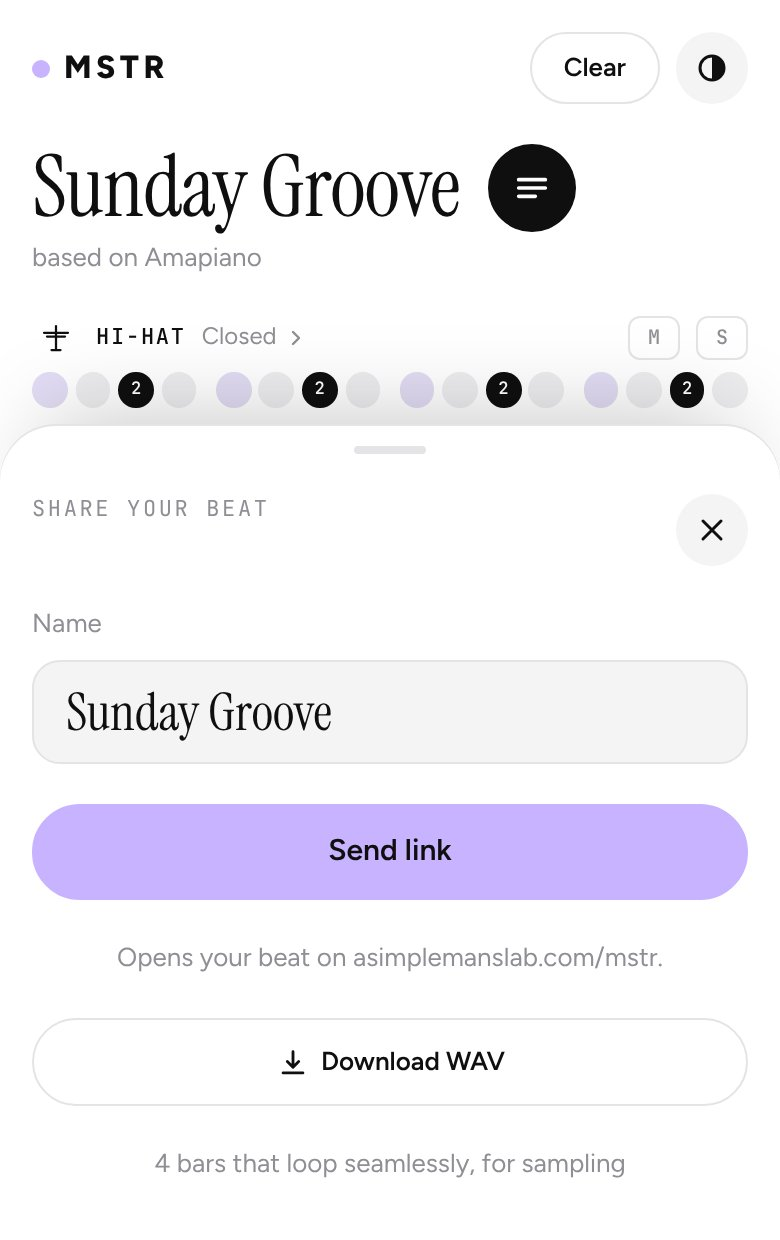
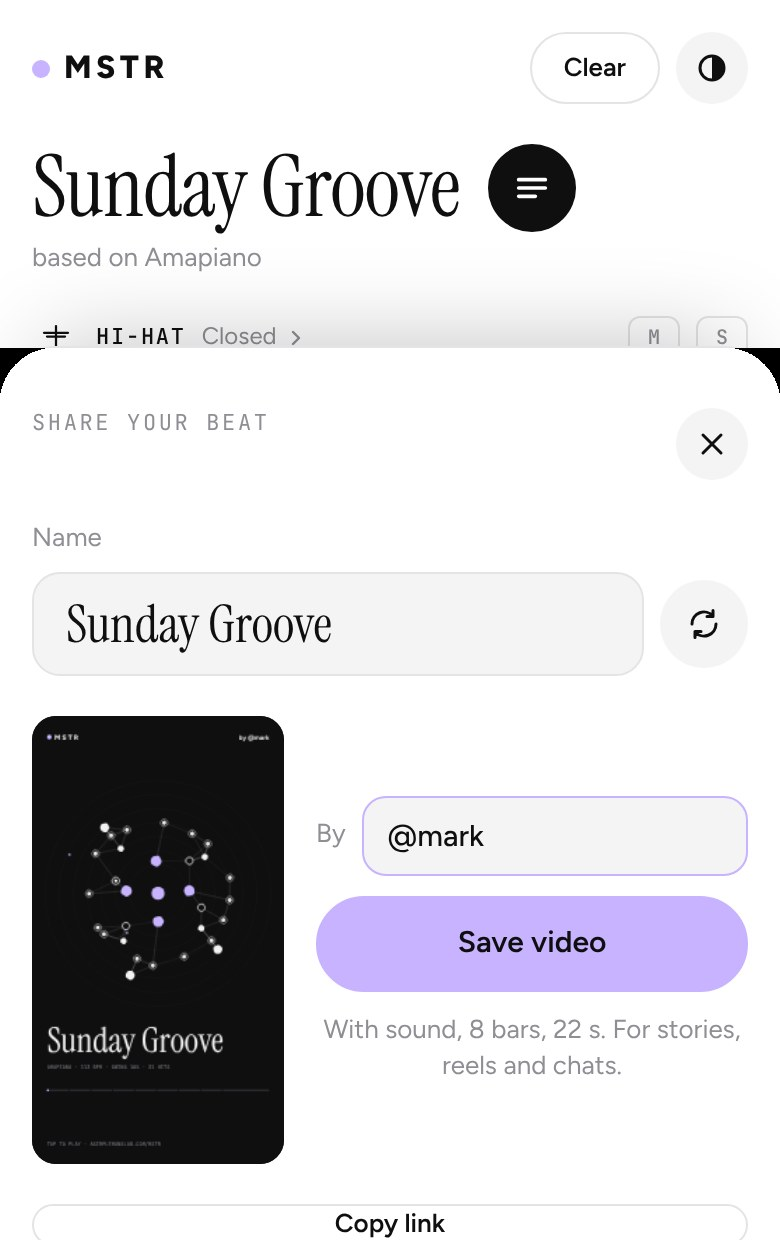
MSTR: App-Kopie mit Video-Karte, Landing-Page-Text und Vorschau 5 aktualisiert
Claude-Session: https://claude.ai/code/session_01WCtGHVGad15G69qQznzFsj

diff --git a/mstr/app/index.html b/mstr/app/index.html
@@ -186,6 +186,17 @@ input[type=range]::-moz-range-thumb{width:20px;height:20px;border-radius:50%;bac
 .namef input{height:52px;border-radius:14px;border:1px solid var(--line);background:var(--soft);color:var(--ink);padding:0 16px;font-family:var(--f-ed);font-size:26px;outline:none;width:100%}
 .namef input:focus{border-color:var(--accent);box-shadow:0 0 0 3px color-mix(in srgb,var(--accent) 35%,transparent)}
 .namef input::placeholder{color:var(--mute)}
+.namer{display:flex;gap:8px;align-items:center}
+.namer .ib{width:44px;height:44px;flex:none}
+/* Karte: Vorschau links, Name und Knopf rechts */
+.cardrow{display:flex;gap:16px;align-items:stretch}
+.cardrow canvas{width:126px;height:224px;border-radius:12px;flex:none;background:#0F0F10}
+.cardct{display:flex;flex-direction:column;gap:10px;flex:1;min-width:0;justify-content:center}
+.byf{display:flex;align-items:center;gap:8px}
+.byf .lbl{flex:none}
+.byf input{flex:1;min-width:0;height:40px;border-radius:12px;border:1px solid var(--line);background:var(--soft);color:var(--ink);padding:0 12px;font:500 15px var(--f-ui);outline:none}
+.byf input:focus{border-color:var(--accent)}
+.cardct .pill{height:48px}
 .pill.go{background:var(--accent);color:var(--on-accent);border-color:var(--accent);font-size:15px;height:48px}
 .shnote{margin:0;font-size:13px;color:var(--mute);text-align:center}
 .fxi i{width:26px;height:26px;border-radius:50%;background:var(--off);flex:none;transition:background .15s,transform .15s}
@@ -583,6 +594,181 @@ function record(id,status,done){
 }
 function dropRec(id){delete REC[id];lsSet('mstr-rec-'+id,null);}
 
+/* ===== Karte: der Beat als Ring-Molekül, zum Teilen als Video mit Ton (Story 9:16) oder als Bild =====
+   Jeder Schlag ist ein Atom auf einem Ring je Spur (Kick innen, FX außen). Was gleichzeitig klingt, hängt an einer Linie
+   von innen nach außen, die aufblitzt, wenn der Schritt spielt. Atome treiben eigenständig, verbinden sich mit ihren
+   nächsten Nachbarn, federn bei Treffern und driften am Taktende auseinander. Der Clip ist ein Bogen über 8 Takte
+   (Spuren kommen nacheinander dazu, Takt 7 ohne Kick) plus Schlussschlag, danach treiben die Atome auseinander.
+   Schutz: Es darf nie eine haken- oder windradförmige Figur entstehen. Deshalb gibt es keine Bögen zum Nachbarschritt,
+   keinen Drehversatz zwischen den Ringen, jedes Atom sitzt fest leicht versetzt, und erkennt die Karte eine vierfache
+   Drehsymmetrie, zeigt sie nur gerade Linien von innen nach außen. Beim Ändern bitte beibehalten */
+var CARD=(function(){
+  var LIL='#C7B3FF',INK='#0F0F10',WHT='#F3F3F4',GRY='#7A7A81',ORDER=[1,2,0,4,5,3,6],NBAR=9,TAIL=2.4;
+  function hash(s){var h=2166136261,i;for(i=0;i<s.length;i++){h^=s.charCodeAt(i);h=Math.imul(h,16777619);}return h>>>0;}
+  function rng(a){return function(){a|=0;a=a+0x6D2B79F5|0;var t=Math.imul(a^a>>>15,1|a);t=t+Math.imul(t^t>>>7,61|t)^t;return((t^t>>>14)>>>0)/4294967296;};}
+  /* feste Zufallsabweichung je Atom (bricht jede Drehsymmetrie) */
+  function sj(seed,r,i,k){var v=Math.sin((seed%10007)*0.017+r*12.9898+i*78.233+k*37.719)*43758.5453;return (v-Math.floor(v))*2-1;}
+  function clock(){return performance.now()/1000;}
+  function reduce(){return matchMedia('(prefers-reduced-motion: reduce)').matches;}
+
+  /* Beat-Modell aus den sieben eingebauten Spuren (Zeichen '0' = aus) */
+  function model(rows,bpm,sw){
+    var R=rows.slice(0,7).map(function(r){return (r||'').padEnd(16,'0').slice(0,16);}),cnt=[],tot=0,dom=0,i;
+    R.forEach(function(r){var n=0;for(i=0;i<16;i++)if(r.charAt(i)!=='0')n++;cnt.push(n);tot+=n;});
+    var TYP=[8,4,3,1,6,2,1];for(i=1;i<7;i++)if(cnt[i]/TYP[i]>cnt[dom]/TYP[dom])dom=i;
+    return {R:R,cnt:cnt,tot:tot,bpm:bpm,sw:sw,dom:dom,seed:hash(R.join('')+bpm)};
+  }
+  /* Arrangement: welche Spur in welchem Takt klingt (Takt 0 = erster). Takt 8 ist der Schlussschlag */
+  function active(tr,bar){if(bar===0)return tr===1||tr===0;if(bar===1)return tr!==3&&tr!==5&&tr!==6;if(bar===6)return tr!==1;if(bar===8)return false;return true;}
+  function clipLen(bpm){return NBAR*240/bpm+TAIL;}
+
+  /* Titel aus dem Beat: Stimmung nach Tempo, Wörter für Swing, Hauptwort nach der lautesten Spur */
+  var TW={
+    slow:['Sunday','Velvet','Late','Slow','Honey','Fog','Porch','Dusk'],
+    mid:['Golden','Rooftop','Soft','Kitchen','Copper','Amber','Low Tide','Balcony'],
+    up:['Midnight','Neon','Basement','Warm','Tunnel','Corner','Silver','Cherry'],
+    fast:['Rapid','Concrete','Electric','Strobe','Wire','Chrome','Jet','Glass'],
+    hyper:['Hyper','Loose','Static','Paper','Sprint','Flash','Rust','Zero'],
+    swing:['Lean','Tilt','Drunken','Loose','Lazy','Crooked'],
+    noun:[['Ticker','Shimmer','Whisper','Hiss'],['Thump','Heartbeat','Engine','Pulse'],['Snap','Clap','Backbone','Crack'],['Halo','Wash','Bell','Bloom'],['Shaker','Rattle','Clockwork','Marble'],['Thunder','Roll','Drum','Canyon'],['Glitch','Signal','Ghost','Echo']],
+    place:['Parking Lot','Night Bus','Kiosk','Hallway','Laundromat','Terrace','Backseat','Elevator'],
+    hour:['2 AM','4 PM','6 AM','11 PM','Noon','Dawn','Golden Hour','Last Call']};
+  function title(m,n){var g=rng((m.seed^0x7a11)+(n|0)*7919),pk=function(a){return a[Math.floor(g()*a.length)];},
+      mood=m.bpm<90?'slow':m.bpm<110?'mid':m.bpm<128?'up':m.bpm<148?'fast':'hyper',adj=m.sw>.22&&g()<.5?pk(TW.swing):pk(TW[mood]),noun=pk(TW.noun[m.dom]),f=g();
+    if(f<.4)return adj+' '+noun;if(f<.6)return noun+' at '+pk(TW.hour);if(f<.8)return pk(TW.place)+' '+noun;return 'The '+adj+' '+noun;}
+
+  /* Eine Szene hält die Physik (Federn, Treffer) und den Stand im Clip */
+  function Scene(m){this.m=m;this.st={};this.hitT=[0,0,0,0,0,0,0];this.flashT=[];this.TV=[1,1,1,1,1,1,1];this.waves=[];this.step=-1;this.bar=0;this.ct=-1;this.barT=0;
+    for(var i=0;i<16;i++)this.flashT.push(0);this.ev=events(m);this.ei=0;}
+  /* Ereignisse des Clips in Sekunden: je Schritt die Spuren, die klingen */
+  function events(m){var six=60/m.bpm/4,E=[],b,s,r;
+    for(b=0;b<NBAR;b++)for(s=0;s<16;s++){var hits=[],t=b*16*six+s*six+((s%4===2)?six*m.sw:0);
+      if(b===8){if(s===0)hits=[1,3];}else for(r=0;r<7;r++)if(active(r,b)&&m.R[r].charAt(s)!=='0')hits.push(r);
+      E.push({t:t,s:s,b:b,h:hits});}
+    return E;}
+  Scene.prototype.live=function(){return this.ct>=0;};
+  Scene.prototype.pul=function(r,d){if(!this.live())return 0;var a=(performance.now()-this.hitT[r])/1000;return Math.max(0,1-a/(d||.2));};
+  /* Stand im Clip setzen: alle Ereignisse bis dahin auslösen */
+  Scene.prototype.seek=function(ct){var now=performance.now();this.ct=ct;
+    while(this.ei<this.ev.length&&this.ev[this.ei].t<=ct){var e=this.ev[this.ei++],self=this;
+      if(e.s===0)this.barT=now;this.step=e.s;this.bar=e.b;
+      e.h.forEach(function(r){self.hitT[r]=now;self.waves.push({t:now,r:[62,92,32,152,122,182,212][ORDER.indexOf(r)]});});
+      if(e.h.length)this.flashT[e.s]=now;}
+    this.waves=this.waves.filter(function(w){return now-w.t<1000;});
+    for(var r=0;r<7;r++){var tg=active(r,this.bar)?1:.1;this.TV[r]+=(tg-this.TV[r])*.07;}};
+  Scene.prototype.outro=function(){if(!this.live()||this.bar!==8)return 0;return Math.min(1,(performance.now()-this.barT)/1000/(240/this.m.bpm));};
+  Scene.prototype.reset=function(){this.st={};this.ei=0;this.ct=-1;this.step=-1;this.bar=0;this.waves=[];this.TV=[1,1,1,1,1,1,1];};
+
+  function atoms(S,cx,cy,sc,live){
+    var m=S.m,T=clock(),sd=Math.PI/8,bp=((live?S.ct:T)*m.bpm/240)%1,drift=live&&bp>.7?Math.pow((bp-.7)/.3,1.6)*30*sc:0,out=S.outro(),A=[],byStep=[],i;
+    for(i=0;i<16;i++)byStep[i]=[];
+    ORDER.forEach(function(tr,r){var row=m.R[tr],rad=(62+r*30)*sc*(1+(live?Math.sin(T*(0.5+sj(m.seed,r,99,4)*.3)+r*1.1)*0.03:0)),
+        rot=live?T*0.05+Math.sin(T*(0.21+0.13*sj(m.seed,r,99,5))+r*2.3)*0.12:0;
+      for(i=0;i<16;i++){var v=row.charAt(i);if(v==='0')continue;
+        var w1=0.35+0.3*sj(m.seed,r,i,6),w2=0.9+0.5*sj(m.seed,r,i,7),p1=sj(m.seed,r,i,8)*7,p2=sj(m.seed,r,i,9)*7,
+            wr=live?(Math.sin(T*w1+p1)*8+Math.sin(T*w2+p2)*4)*sc:0,wa=live?(Math.sin(T*w1*.8+p2)*0.06+Math.sin(T*w2*1.3+p1)*0.03):0;
+        var a=-Math.PI/2+i*sd+(i%2?m.sw*sd*.66:0)+rot+sj(m.seed,r,i,0)*0.16+wa,rr=rad+sj(m.seed,r,i,1)*8*sc+wr+out*80*sc*(.6+.4*sj(m.seed,r,i,12));
+        var da=sj(m.seed,r,i,2)*Math.PI,tx=cx+Math.cos(a)*rr+Math.cos(da)*drift,ty=cy+Math.sin(a)*rr+Math.sin(da)*drift,id=r+'-'+i,p=S.st[id];
+        if(!p||!live)p=S.st[id]={ox:0,oy:0,vx:0,vy:0,h:S.hitT[tr]};
+        else{p.vx=(p.vx-p.ox*0.06)*0.87;p.vy=(p.vy-p.oy*0.06)*0.87;
+          if(i===S.step&&p.h!==S.hitT[tr]){p.h=S.hitT[tr];var kk=(tr===1?10:7)*sc,ka=a+sj(m.seed,r,i,10)*.8;p.vx+=Math.cos(ka)*kk;p.vy+=Math.sin(ka)*kk;p.fresh=1;}
+          p.ox+=p.vx;p.oy+=p.vy;}
+        var at={r:r,tr:tr,i:i,v:v,a:a,x:tx+p.ox,y:ty+p.oy,vx:p.vx,vy:p.vy,hp:(live&&i===S.step)?S.pul(tr,.35):0,bs:sj(m.seed,r,i,3)>0?1:-1,st:p,ph:sj(m.seed,r,i,11)*7,vis:S.TV[tr]*(1-out*.8)};
+        A.push(at);byStep[i].push(at);}});
+    return {A:A,byStep:byStep};}
+  /* Vierfache Drehsymmetrie erkennen: dann nur gerade Linien nach außen */
+  function symScore(A,cx,cy){var n=0,s=0;A.forEach(function(p){var rx=cx-(p.y-cy),ry=cy+(p.x-cx),mn=1e9;A.forEach(function(q){if(q.tr!==p.tr)return;var d=Math.hypot(q.x-rx,q.y-ry);if(d<mn)mn=d;});s+=mn;n++;});return n?s/n:99;}
+  function bonds(x,S,G,fg,sc,live){var T=clock(),A=G.A,E={},list=[],i,k;x.lineCap='round';
+    var safe=symScore(A,G.cx,G.cy)<7*sc;
+    if(safe){for(i=0;i<16;i++){var s=G.byStep[i];for(k=1;k<s.length;k++)list.push([s[k-1],s[k],1]);}}
+    else A.forEach(function(p,ip){var near=[];A.forEach(function(q,iq){if(iq===ip)return;var d=Math.hypot(q.x-p.x,q.y-p.y);if(d<74*sc)near.push([d,iq]);});
+      near.sort(function(u,v){return u[0]-v[0];});near.slice(0,2).forEach(function(n){var key=Math.min(ip,n[1])+'_'+Math.max(ip,n[1]);if(E[key])return;E[key]=1;list.push([p,A[n[1]],1-n[0]/(74*sc)]);});});
+    list.forEach(function(L){var p=L[0],q=L[1],dx=q.x-p.x,dy=q.y-p.y,d=Math.hypot(dx,dy)||1,nx=-dy/d,ny=dx/d,hot=live&&(p.i===S.step||q.i===S.step)&&(p.hp>.2||q.hp>.2),
+        rel=(q.vx-p.vx)*nx+(q.vy-p.vy)*ny,bend=(live?Math.sin(T*1.4+p.i*1.7+q.r)*4*sc*q.bs:0)-rel*3;
+      if(p.st.fresh&&!q.st.fresh){q.st.vx+=p.vx*.35;q.st.vy+=p.vy*.35;}else if(q.st.fresh&&!p.st.fresh){p.st.vx+=q.vx*.35;p.st.vy+=q.vy*.35;}
+      x.strokeStyle=hot?LIL:fg;x.globalAlpha=(hot?.95:.12+.3*Math.min(1,L[2]*1.4))*Math.min(p.vis,q.vis);x.lineWidth=(hot?2.2:1.2)*sc;x.beginPath();x.moveTo(p.x,p.y);
+      x.quadraticCurveTo((p.x+q.x)/2+nx*bend,(p.y+q.y)/2+ny*bend,q.x,q.y);x.stroke();x.globalAlpha=1;});
+    A.forEach(function(p){p.st.fresh=0;});}
+  /* Linie der gleichzeitigen Schläge von innen nach außen, blitzt beim Spielen auf */
+  function chains(x,S,G,fg,sc,live){var now=performance.now(),i;x.lineCap='round';x.lineJoin='round';
+    for(i=0;i<16;i++){var s=G.byStep[i];if(!s.length)continue;var f=live?Math.max(0,1-(now-S.flashT[i])/420):0,vv=1;
+      s.forEach(function(p){vv=Math.min(vv,p.vis);});
+      var pts=(f>0?[{x:G.cx,y:G.cy}]:[]).concat(s);if(pts.length<2)continue;
+      var draw=function(){x.beginPath();x.moveTo(pts[0].x,pts[0].y);for(var k=1;k<pts.length-1;k++)x.quadraticCurveTo(pts[k].x,pts[k].y,(pts[k].x+pts[k+1].x)/2,(pts[k].y+pts[k+1].y)/2);x.lineTo(pts[pts.length-1].x,pts[pts.length-1].y);x.stroke();};
+      x.strokeStyle=fg;x.globalAlpha=.24*vv;x.lineWidth=1.3*sc;draw();
+      if(f>0){x.strokeStyle=LIL;x.globalAlpha=f;x.lineWidth=(1.5+f*2)*sc;draw();}
+      x.globalAlpha=1;}}
+  /* weicher Tropfen statt Kreis: wabert, zieht sich in Bewegungsrichtung lang, zittert beim Treffer */
+  function blob(x,p,px,py,r){if(reduce()){x.moveTo(px+r,py);x.arc(px,py,r,0,7);return;}
+    var T=clock(),N=12,sp=Math.hypot(p.vx,p.vy),dir=Math.atan2(p.vy,p.vx),st=Math.min(.3,sp*.035),wob=.08+p.hp*.3,P=[],k;
+    for(k=0;k<N;k++){var th=k/N*Math.PI*2,rr=r*(1+wob*Math.sin(T*(1.2+(k%3)*.45)+p.ph+k*1.7)+wob*.5*Math.sin(T*2.3+p.ph*2+k*2.9)+st*Math.cos(2*(th-dir)));P.push([px+Math.cos(th)*rr,py+Math.sin(th)*rr]);}
+    x.moveTo((P[N-1][0]+P[0][0])/2,(P[N-1][1]+P[0][1])/2);
+    for(k=0;k<N;k++){var q=P[(k+1)%N];x.quadraticCurveTo(P[k][0],P[k][1],(P[k][0]+q[0])/2,(P[k][1]+q[1])/2);}x.closePath();}
+  function atom(x,p,sc,fg,bg,kickStroke){var tr=p.tr,v=p.v,px=p.x,py=p.y,va=.3+.7*p.vis,k=(1+p.hp*.7)*(.35+.65*p.vis);x.globalAlpha=va;
+    if(p.hp>0){x.strokeStyle=LIL;x.globalAlpha=p.hp*va;x.lineWidth=1.5*sc;x.beginPath();blob(x,p,px,py,(10+(1-p.hp)*22)*sc);x.stroke();x.globalAlpha=va;}
+    x.fillStyle=p.hp>.3?LIL:fg;x.strokeStyle=x.fillStyle;x.lineWidth=2.4*sc;x.beginPath();
+    if(tr===1){x.fillStyle=LIL;blob(x,p,px,py,12*sc*k);x.fill();if(kickStroke){x.lineWidth=1.5*sc;x.strokeStyle=kickStroke;x.stroke();}}
+    else if(tr===2){blob(x,p,px,py,8*sc*k);x.fillStyle=bg;x.fill();x.stroke();if(v==='c'){x.beginPath();blob(x,p,px,py,3.5*sc*k);x.fillStyle=x.strokeStyle;x.fill();}}
+    else if(tr===0){blob(x,p,px,py,(v==='o'?7:v==='k'?3.5:5)*sc*k);x.fill();}
+    else if(tr===4){blob(x,p,px,py,4.5*sc*k);x.fill();x.beginPath();blob(x,p,px,py,8*sc*k);x.lineWidth=1.2*sc;x.stroke();}
+    else if(tr===5){blob(x,p,px,py,10*sc*k);x.fill();}
+    else if(tr===3){blob(x,p,px,py,3*sc*k);x.fill();x.beginPath();blob(x,p,px,py,13*sc*k);x.lineWidth=1*sc;x.globalAlpha=.5*va;x.stroke();}
+    else{blob(x,p,px,py,6*sc*k);x.fill();x.beginPath();blob(x,p,px,py,11*sc*k);x.lineWidth=1*sc;x.globalAlpha=.6*va;x.stroke();}
+    x.globalAlpha=1;}
+  function ring(x,S,cx,cy,sc,fg,bg,live){
+    var m=S.m,T=clock(),g=rng(m.seed),i,G=atoms(S,cx,cy,sc,live);G.cx=cx;G.cy=cy;
+    x.strokeStyle=fg;x.globalAlpha=.07;x.lineWidth=1*sc;for(i=0;i<7;i++){x.beginPath();x.arc(cx,cy,(62+i*30)*sc,0,7);x.stroke();}x.globalAlpha=1;
+    bonds(x,S,G,fg,sc,live);chains(x,S,G,fg,sc,live);
+    if(live)S.waves.forEach(function(w){var age=(performance.now()-w.t)/900;if(age>1||age<0)return;x.strokeStyle='rgba(199,179,255,'+(0.5*(1-age))+')';x.lineWidth=1.5*sc;x.beginPath();x.arc(cx,cy,(w.r+age*90)*sc,0,7);x.stroke();});
+    var ne=Math.min(7,2+m.cnt[3]+m.cnt[6]);for(i=0;i<ne;i++){var orb=(70+g()*190)*sc,sp=(0.3+g()*0.6)*(m.bpm/110)*(g()>.5?1:-1),ph=g()*7,ea=ph+(live||!reduce()?T*sp:0);
+      x.fillStyle=LIL;x.globalAlpha=.85;x.beginPath();x.arc(cx+Math.cos(ea)*orb,cy+Math.sin(ea)*orb,2.6*sc,0,7);x.fill();x.globalAlpha=1;}
+    G.A.forEach(function(p){atom(x,p,sc,fg,bg,bg!==INK?INK:null);});
+    x.fillStyle=LIL;x.beginPath();x.arc(cx,cy,(14+S.pul(1)*9+(live?Math.sin(T*m.bpm/60*Math.PI)*1.5:0))*sc,0,7);x.fill();}
+  function mono(x,txt,X,Y,col,al,sc){x.fillStyle=col;x.font='500 '+(11*sc)+'px "JetBrains Mono",ui-monospace,monospace';x.textAlign=al||'left';x.fillText(txt,X,Y);x.textAlign='left';}
+  function fit(x,txt,max,size,fam){var s=size;do{x.font=s+'px '+fam;s-=2;}while(x.measureText(txt).width>max&&s>18);}
+  /* Die ganze Karte (9:16) auf eine Fläche W×H zeichnen; o = {title, by, preset, live} */
+  function story(x,W,H,S,o){
+    var sc=W/540,fg=WHT,bg=INK,live=!!o.live&&S.live();x.setTransform(1,0,0,1,0,0);
+    x.fillStyle=bg;x.fillRect(0,0,W,H);
+    x.fillStyle=LIL;x.beginPath();x.arc(37*sc,45*sc,5*sc,0,7);x.fill();x.fillStyle=fg;x.font='700 '+(15*sc)+'px Figtree,sans-serif';x.textAlign='left';x.fillText('M S T R',48*sc,50*sc);
+    if(o.by){x.font='600 '+(14*sc)+'px Figtree,sans-serif';x.textAlign='right';x.fillText('by '+(o.by.charAt(0)==='@'?o.by:'@'+o.by),W-32*sc,52*sc);x.textAlign='left';}
+    ring(x,S,W/2,380*sc,sc,fg,bg,live);
+    x.fillStyle=fg;fit(x,o.title,W-64*sc,74*sc,'"Instrument Serif",ui-serif,Georgia,serif');x.fillText(o.title,32*sc,720*sc);
+    mono(x,((o.preset?o.preset+' · ':'')+S.m.bpm+' BPM · SWING '+Math.round(S.m.sw*100)+'% · '+S.m.tot+' HITS').toUpperCase(),32*sc,756*sc,GRY,'left',sc);
+    var tot=clipLen(S.m.bpm),prog=live?Math.min(1,S.ct/tot):0;
+    x.fillStyle='#2A2A2E';x.fillRect(32*sc,800*sc,W-64*sc,4*sc);x.fillStyle=LIL;x.fillRect(32*sc,800*sc,Math.max(4*sc,(W-64*sc)*prog),4*sc);
+    x.fillStyle=bg;for(var k=1;k<NBAR;k++)x.fillRect(32*sc+(W-64*sc)*k*(240/S.m.bpm)/tot-sc,799*sc,2*sc,6*sc);
+    mono(x,'TAP TO PLAY · ASIMPLEMANSLAB.COM/MSTR',32*sc,H-40*sc,GRY,'left',sc);}
+
+  /* Video aufnehmen: Canvas plus Ton aus dem fertig gerechneten Puffer, in Echtzeit (so lang wie der Clip).
+     buf: AudioBuffer des Clips, ac: AudioContext. onTick(sek, gesamt). done(File|null, Grund) */
+  function mime(){var L=['video/mp4;codecs="avc1.42E01E,mp4a.40.2"','video/mp4;codecs=avc1,mp4a.40.2','video/mp4;codecs=avc1','video/mp4','video/webm;codecs=vp9,opus','video/webm;codecs=vp8,opus','video/webm'],i;
+    if(!window.MediaRecorder||!MediaRecorder.isTypeSupported)return null;for(i=0;i<L.length;i++)if(MediaRecorder.isTypeSupported(L[i]))return L[i];return null;}
+  function canVideo(){var c=document.createElement('canvas');return !!(mime()&&c.captureStream&&window.AudioContext&&AudioContext.prototype.createMediaStreamDestination);}
+  function record(ac,buf,S,o,onTick,done){
+    var cv=document.createElement('canvas');cv.width=1080;cv.height=1920;var x=cv.getContext('2d'),mt=mime(),chunks=[],rec,src,dst,t0,raf,stopped=false,aborted=false,tot=clipLen(S.m.bpm);
+    try{
+      dst=ac.createMediaStreamDestination();src=ac.createBufferSource();src.buffer=buf;src.connect(dst);src.connect(ac.destination);
+      var stream=cv.captureStream(30);dst.stream.getAudioTracks().forEach(function(t){stream.addTrack(t);});
+      rec=new MediaRecorder(stream,{mimeType:mt,videoBitsPerSecond:6000000});
+    }catch(e){return done(null,'start');}
+    rec.ondataavailable=function(e){if(e.data&&e.data.size)chunks.push(e.data);};
+    rec.onstop=function(){cancelAnimationFrame(raf);try{src.stop();}catch(e){}if(aborted)return done(null,'abort');
+      var ext=mt.indexOf('mp4')>=0?'mp4':'webm',b=new Blob(chunks,{type:mt.split(';')[0]});
+      if(!b.size)return done(null,'empty');done(new File([b],o.file+'.'+ext,{type:b.type}),null);};
+    S.reset();story(x,1080,1920,S,o);
+    function frame(){if(stopped)return;var ct=ac.currentTime-t0;if(ct<0)ct=0;S.seek(ct);story(x,1080,1920,S,{title:o.title,by:o.by,preset:o.preset,live:true});
+      if(o.mirror){var mx=o.mirror.getContext('2d');mx.drawImage(cv,0,0,o.mirror.width,o.mirror.height);}
+      onTick(ct,tot);if(ct>=tot){stopped=true;rec.stop();return;}raf=requestAnimationFrame(frame);}
+    rec.start(250);t0=ac.currentTime+.1;src.start(t0);frame();
+    return function(){if(stopped)return;stopped=true;aborted=true;cancelAnimationFrame(raf);try{rec.stop();}catch(e){}};
+  }
+  /* Standbild als PNG */
+  function image(S,o,done){var cv=document.createElement('canvas');cv.width=1080;cv.height=1920;S.reset();story(cv.getContext('2d'),1080,1920,S,o);
+    cv.toBlob(function(b){done(b?new File([b],o.file+'.png',{type:'image/png'}):null);},'image/png');}
+  return {model:model,title:title,Scene:Scene,story:story,record:record,image:image,canVideo:canVideo,clipLen:clipLen,active:active,NBAR:NBAR,TAIL:TAIL};
+})();
+
 /* ===== MSTR: Raster, Transport, Vorlagen, Spur-Einstellungen ===== */
 (function(){
   /* Vorschläge zum Würfeln für Becken, Perc, Toms, FX und die eigene Aufnahme (16 Schritte) */
@@ -677,7 +863,9 @@ function dropRec(id){delete REC[id];lsSet('mstr-rec-'+id,null);}
   if(P&&Array.isArray(P.br)&&P.br.length===R)brush=brush.map(function(d,r){return sndIx(r,P.br[r])>=0?P.br[r]:d;});
   function persist(){S.pat={v:5,g:pat,bpm:bpm,sw:sw,vol:vol,mute:mute,solo:solo,pre:pre,ed:edited,br:brush,nm:title};save();}
   function anySolo(){return solo.some(Boolean);}
-  function audible(r){return anySolo()?solo[r]:!mute[r];}
+  /* ARR: beim Rechnen der Karte entscheidet das Arrangement je Takt mit, welche Spur klingt */
+  var ARR=null;
+  function audible(r){if(ARR&&r<MIC&&!ARR(r))return false;return anySolo()?solo[r]:!mute[r];}
   function gainOf(r){return Math.pow(vol[r]/.8,1.6);} /* 80 % entspricht dem Originalpegel */
 
   /* ---------- Raster ---------- */
@@ -891,7 +1079,7 @@ function dropRec(id){delete REC[id];lsSet('mstr-rec-'+id,null);}
     var f=sheet.querySelector('[data-focus]')||sheet.querySelector('button');if(f)f.focus({preventScroll:true});
     pageName=name;if(location.hash!=='#'+name){pushed=true;location.hash=name;}
   }
-  function hideSheet(){sheet.hidden=true;catcher.hidden=true;sheet.innerHTML='';document.body.classList.remove('noscroll');if(lastFocus&&lastFocus.focus)lastFocus.focus({preventScroll:true});}
+  function hideSheet(){if(sheet.__stop){sheet.__stop();sheet.__stop=null;}sheet.hidden=true;catcher.hidden=true;sheet.innerHTML='';document.body.classList.remove('noscroll');if(lastFocus&&lastFocus.focus)lastFocus.focus({preventScroll:true});}
   function closeSheet(){if(sheet.hidden)return;hideSheet();if(pushed){pushed=false;ignoreHash=true;history.back();}}
   window.addEventListener('hashchange',function(){if(ignoreHash){ignoreHash=false;return;}if(!sheet.hidden&&location.hash!=='#'+pageName){pushed=false;hideSheet();}});
   var X='',XB='<button type="button" class="ib" data-close aria-label="Close"><svg viewBox="0 0 24 24" aria-hidden="true"><path d="M6 6l12 12M18 6L6 18" fill="none" stroke="currentColor" stroke-width="2" stroke-linecap="round"/></svg></button>';
@@ -1091,6 +1279,24 @@ function dropRec(id){delete REC[id];lsSet('mstr-rec-'+id,null);}
     var p=off.startRendering(),fin=function(buf){done(wavBlob([buf.getChannelData(0).slice(a,a+n),buf.getChannelData(1).slice(a,a+n)],sr));};
     if(p&&p.then)p.then(fin,function(){done(null);});else off.oncomplete=function(e){fin(e.renderedBuffer);};
   }
+  /* Ton für die Karte: der Bogen über 8 Takte plus Schlussschlag (Kick und Crash) und Nachklang, offline gerechnet wie der WAV-Loop,
+     ohne Vorlauf (der Clip fängt leer an). done(AudioBuffer|null) */
+  function renderClip(done){
+    getAC();var OAC=window.OfflineAudioContext||window.webkitOfflineAudioContext;if(!ac||!OAC)return done(null);
+    if(REC.mic&&!REC.mic.buf){decodeRec('mic');var w=0,iv=setInterval(function(){if(!REC.mic||REC.mic.buf||++w>20){clearInterval(iv);renderClip(done);}},100);return;}
+    var six=st(),barT=N*six,sr=ac.sampleRate,n=Math.round(CARD.clipLen(bpm)*sr),off,keep={ac:ac,B:B,bac:_bac,oc:_oc,og:_og,live:FXLIVE},s,k;
+    try{
+      off=new OAC(2,n,sr);
+      ac=off;B=null;_bac=null;_oc=null;bus();FXLIVE=true;fxApply(true);
+      for(k=0;k<CARD.NBAR;k++){(function(k){ARR=function(r){return CARD.active(r,k);};})(k);fxTempo();
+        if(k===CARD.NBAR-1){play('beat',k*barT,[0,'b',2,gainOf(1)]);play('cym',k*barT,[0,'c',2,gainOf(3)]);}
+        else for(s=0;s<N;s++)playStep(s,k*barT+s*six+((s%4===2)?six*sw:0),six,k);}
+    }catch(e){off=null;}
+    ARR=null;ac=keep.ac;B=keep.B;_bac=keep.bac;_oc=keep.oc;_og=keep.og;FXLIVE=keep.live;
+    if(!off)return done(null);
+    var p=off.startRendering();
+    if(p&&p.then)p.then(done,function(){done(null);});else off.oncomplete=function(e){done(e.renderedBuffer);};
+  }
   function wavBlob(ch,sr){
     var n=ch[0].length,C=ch.length,ab=new ArrayBuffer(44+n*C*2),v=new DataView(ab),i,c,o=44;
     function w(at,t){for(var j=0;j<t.length;j++)v.setUint8(at+j,t.charCodeAt(j));}
@@ -1098,26 +1304,64 @@ function dropRec(id){delete REC[id];lsSet('mstr-rec-'+id,null);}
     for(i=0;i<n;i++)for(c=0;c<C;c++){var x=Math.max(-1,Math.min(1,ch[c][i]));v.setInt16(o,x*32767,true);o+=2;}
     return new Blob([ab],{type:'audio/wav'});
   }
-  function fileName(){
-    var nm=(title||(pre>=0?NM[BEATS[pre].n]:'MSTR beat')).normalize('NFD').replace(/[\u0300-\u036f]/g,'').replace(/[^A-Za-z0-9]+/g,'-').replace(/^-+|-+$/g,'')||'MSTR-beat';
-    return nm+'-'+bpm+'bpm.wav';
+  function baseName(){
+    return (title||(pre>=0?NM[BEATS[pre].n]:'MSTR beat')).normalize('NFD').replace(/[\u0300-\u036f]/g,'').replace(/[^A-Za-z0-9]+/g,'-').replace(/^-+|-+$/g,'')||'MSTR-beat';
   }
+  function fileName(){return baseName()+'-'+bpm+'bpm.wav';}
   function canSendFile(f){try{return !!(navigator.canShare&&navigator.share&&navigator.canShare({files:[f]}));}catch(e){return false;}}
   function saveFile(f){var u=URL.createObjectURL(f),a=document.createElement('a');a.href=u;a.download=f.name;document.body.appendChild(a);a.click();a.remove();setTimeout(function(){URL.revokeObjectURL(u);},4000);}
   /* Teilen: halbes Blatt. Erst dem Beat einen Namen geben (bleibt gespeichert und steht oben als Titel), dann den Link schicken */
+  /* Teilen: halbes Blatt. Erst dem Beat einen Namen geben (bleibt gespeichert und steht oben als Titel; der Würfel schlägt
+     einen Titel aus dem Beat vor), dann die Karte als Video schicken, den Link oder den WAV-Loop */
+  var handle=typeof S.by==='string'?S.by.slice(0,24):'';
+  function cardModel(){return CARD.model(pat.slice(0,7),bpm,sw);}
   function shareSheet(){
-    var own=pat[MIC]&&pat[MIC]!==zero();
+    var own=pat[MIC]&&pat[MIC]!==zero(),video=CARD.canVideo(),mob=nativeShare();
     openSheet('<div class="sh-top"><span class="eyebrow" id="sheetT">Share your beat</span>'+XB+'</div>'+
-      '<label class="namef"><span class="lbl">Name</span><input id="shName" type="text" maxlength="40" autocomplete="off" enterkeyhint="send" data-focus></label>'+
-      '<button type="button" class="pill wide go" id="shSend">'+(nativeShare()?'Send link':'Copy link')+'</button>'+
-      '<p class="shnote" id="shSendT">'+(nativeShare()?'':'Paste it into a chat or mail. ')+'Opens your beat on asimplemanslab.com/mstr'+(own?'. Your recording stays on this device.':'.')+'</p>'+
+      '<label class="namef"><span class="lbl">Name</span><span class="namer"><input id="shName" type="text" maxlength="40" autocomplete="off" enterkeyhint="send" data-focus>'+
+      '<button type="button" class="ib" id="shDice" aria-label="Suggest a title" title="Suggest a title"><svg viewBox="0 0 24 24" aria-hidden="true"><path d="M4 12a8 8 0 0 1 14-5.3M20 12a8 8 0 0 1-14 5.3M18 3v4h-4M6 21v-4h4" fill="none" stroke="currentColor" stroke-width="2" stroke-linecap="round" stroke-linejoin="round"/></svg></button></span></label>'+
+      '<div class="cardrow"><canvas id="shCard" width="180" height="320" aria-label="Preview of your card"></canvas>'+
+      '<div class="cardct"><label class="byf"><span class="lbl">By</span><input id="shBy" type="text" maxlength="24" autocomplete="off" placeholder="@you"></label>'+
+      '<button type="button" class="pill wide go" id="shCardBtn">'+(video?(mob?'Send video':'Save video'):(mob?'Send image':'Save image'))+'</button>'+
+      '<p class="shnote" id="shCardT">'+(video?'With sound, 8 bars, '+Math.round(CARD.clipLen(bpm))+' s. For stories, reels and chats.':'As a picture, for stories and chats.')+'</p></div></div>'+
+      '<button type="button" class="pill wide" id="shSend">'+(mob?'Send link':'Copy link')+'</button>'+
+      '<p class="shnote" id="shSendT">'+(mob?'':'Paste it into a chat or mail. ')+'Opens your beat on asimplemanslab.com/mstr'+(own?'. Your recording stays on this device.':'.')+'</p>'+
       '<button type="button" class="pill wide" id="shWav"><svg viewBox="0 0 24 24" aria-hidden="true"><path d="M12 4v11M8 11l4 4 4-4M5 19h14" fill="none" stroke="currentColor" stroke-width="2" stroke-linecap="round" stroke-linejoin="round"/></svg><span>Download WAV</span></button>'+
       '<p class="shnote" id="shWavT">'+BARS+' bars that loop seamlessly, for sampling'+(own?', with your recording':'')+'</p>',function(el){
-      var inp=el.querySelector('#shName');
+      var inp=el.querySelector('#shName'),dice=el.querySelector('#shDice'),diceN=0,m=cardModel(),scene=new CARD.Scene(m);
       inp.value=title;inp.placeholder=pre>=0?NM[BEATS[pre].n]:'Your beat';
       function setName(){var v=inp.value.replace(/[\u0000-\u001f]/g,'').trim().slice(0,40);if(v!==title){title=v;paint();persist();}}
       inp.addEventListener('input',setName);
       inp.addEventListener('keydown',function(e){if(e.key==='Enter'){e.preventDefault();sb.click();}});
+      dice.addEventListener('click',function(){inp.value=CARD.title(m,diceN++);setName();});
+      var by=el.querySelector('#shBy');by.value=handle;
+      by.addEventListener('input',function(){handle=by.value.replace(/[\u0000-\u001f\s]/g,'').slice(0,24);S.by=handle;save();});
+      /* Vorschau: die Karte ruhig animiert, solange das Blatt offen ist */
+      var cv=el.querySelector('#shCard'),cx=cv.getContext('2d'),cardT=null,cRaf=0,busyC=false,cfile=null,ckey='';
+      function opts(){return {title:title||inp.placeholder,by:handle,preset:pre>=0?NM[BEATS[pre].n]:'',file:baseName()+'-'+bpm+'bpm'};}
+      function pv(){if(sheet.hidden||!cv.isConnected){cancelAnimationFrame(cRaf);return;}if(!busyC)CARD.story(cx,cv.width,cv.height,scene,opts());cRaf=requestAnimationFrame(pv);}
+      pv();
+      var cb=el.querySelector('#shCardBtn'),ct=el.querySelector('#shCardT'),cbLabel=cb.textContent;
+      function giveCard(f){
+        if(navigator.share&&matchMedia('(pointer: coarse)').matches&&canSendFile(f)){
+          navigator.share({files:[f],title:(title||inp.placeholder)+' · MSTR'}).catch(function(e){if(e&&e.name==='NotAllowedError'){cb.textContent='Save '+f.name;}});return;}
+        saveFile(f);ct.textContent='Saved '+f.name;
+      }
+      cb.addEventListener('click',function(){
+        setName();if(busyC)return;var o=opts(),key=shareCode()+'|'+o.title+'|'+o.by;
+        if(cfile&&ckey===key)return giveCard(cfile);
+        if(!video){CARD.image(scene,o,function(f){if(!f){ct.textContent='That did not work in this browser.';return;}cfile=f;ckey=key;giveCard(f);});return;}
+        busyC=true;setPlay(false);cb.disabled=true;ct.textContent='Rendering sound …';
+        renderClip(function(buf){
+          if(!buf){busyC=false;cb.disabled=false;ct.textContent='That did not work in this browser.';return;}
+          o.mirror=cv;
+          cardT=CARD.record(ac,buf,scene,o,function(t,tot){ct.textContent='Recording '+Math.ceil(tot-t)+' s … stay on this screen';},function(f,why){
+            busyC=false;cb.disabled=false;cardT=null;scene.reset();
+            if(why==='abort')return;
+            if(!f){ct.textContent='Recording did not work here. Saving a picture instead.';CARD.image(scene,o,function(f2){if(f2){cfile=f2;ckey=key;giveCard(f2);}});return;}
+            cfile=f;ckey=key;ct.textContent=f.name+', '+Math.round(CARD.clipLen(bpm))+' s';cb.textContent=cbLabel;giveCard(f);});
+        });
+      });
       var sb=el.querySelector('#shSend'),sbT=0;
       sb.addEventListener('click',function(){setName();shareBeat(function(){
         sb.textContent='\u2713 Link copied';clearTimeout(sbT);sbT=setTimeout(function(){sb.textContent='Copy link';},2500);});});
@@ -1137,6 +1381,8 @@ function dropRec(id){delete REC[id];lsSet('mstr-rec-'+id,null);}
           if(!blob){wt.textContent='That did not work in this browser.';return;}
           file=new File([blob],fileName(),{type:'audio/wav'});wt.textContent=file.name+', '+(Math.round(BARS*N*st()*10)/10)+' s';give(file);});
       });
+      /* Blatt zu: Aufnahme abbrechen */
+      sheet.__stop=function(){if(cardT)cardT();cancelAnimationFrame(cRaf);};
     },'teilen',true);
   }
   $('share').addEventListener('click',shareSheet);
@@ -1156,7 +1402,7 @@ function dropRec(id){delete REC[id];lsSet('mstr-rec-'+id,null);}
 
   build();themeUI();fxUI();playB.innerHTML=I_PLAY;
   if(shared){var before=shared;showToast(title?'“'+title+'” loaded':'Shared beat loaded','Undo',function(){restore(before);});}
-  window.MSTR={setPlay:setPlay,renderLoop:renderLoop,code:shareCode,url:shareUrl,state:function(){return {pat:pat.slice(),bpm:bpm,sw:sw,pre:pre,playing:playing,fx:JSON.parse(JSON.stringify(FX)),fxa:JSON.parse(JSON.stringify(FXA)),fxo:JSON.parse(JSON.stringify(FXO))};}};
+  window.MSTR={setPlay:setPlay,renderLoop:renderLoop,renderClip:renderClip,card:CARD,code:shareCode,url:shareUrl,state:function(){return {pat:pat.slice(),bpm:bpm,sw:sw,pre:pre,playing:playing,fx:JSON.parse(JSON.stringify(FX)),fxa:JSON.parse(JSON.stringify(FXA)),fxo:JSON.parse(JSON.stringify(FXO))};}};
 })();
 
 })();

diff --git a/mstr/index.html b/mstr/index.html
@@ -47,13 +47,13 @@ body{margin:0;min-height:100vh;background:var(--bg);color:var(--ink);font:400 16
     <figure><img src="vorschau-2.jpg" alt="Liste der Vorlagen nach Tempo, von One Drop bis Amapiano" width="390" height="620" loading="lazy"><figcaption>16 Vorlagen zum Loslegen</figcaption></figure>
     <figure><img src="vorschau-3.jpg" alt="Die Spur Mic mit dem Aufnahmeknopf" width="390" height="620" loading="lazy"><figcaption>Eigenen Klang aufnehmen</figcaption></figure>
     <figure><img src="vorschau-4.jpg" alt="Die Effekte Room und Echo sind an, mit Reglern" width="390" height="620" loading="lazy"><figcaption>Sechs Effekte zum Zuschalten</figcaption></figure>
-    <figure><img src="vorschau-5.jpg" alt="Teilen: der Beat heißt Sunday Groove, darunter Send link und Download WAV" width="390" height="620" loading="lazy"><figcaption>Mit Namen teilen oder als Loop laden</figcaption></figure>
+    <figure><img src="vorschau-5.jpg" alt="Teilen: der Beat heißt Sunday Groove, daneben der Würfel für einen neuen Namen, die Vorschau der Video-Karte und Save video" width="390" height="620" loading="lazy"><figcaption>Als Video-Karte, Link oder Loop teilen</figcaption></figure>
   </div>
   <ol class="steps">
     <li><b>01</b>Eine Vorlage wählen oder mit leerem Raster anfangen</li>
     <li><b>02</b>Schritte antippen, lange drücken für einen anderen Klang, Tempo und Swing einstellen</li>
     <li><b>03</b>Effekte zuschalten, Drop zünden, in der Spur Mic selbst etwas aufnehmen</li>
-    <li><b>04</b>Dem Beat einen Namen geben, als Link verschicken oder als WAV-Loop laden</li>
+    <li><b>04</b>Dem Beat einen Namen geben oder würfeln, als Video-Karte für Story und Chat, als Link oder als WAV-Loop teilen</li>
   </ol>
   <div class="play"><a href="app/">Jetzt loslegen</a><small>Ohne Anmeldung. Läuft auf Handy, Tablet und Computer, am besten mit Kopfhörern.</small></div>
 </section>
